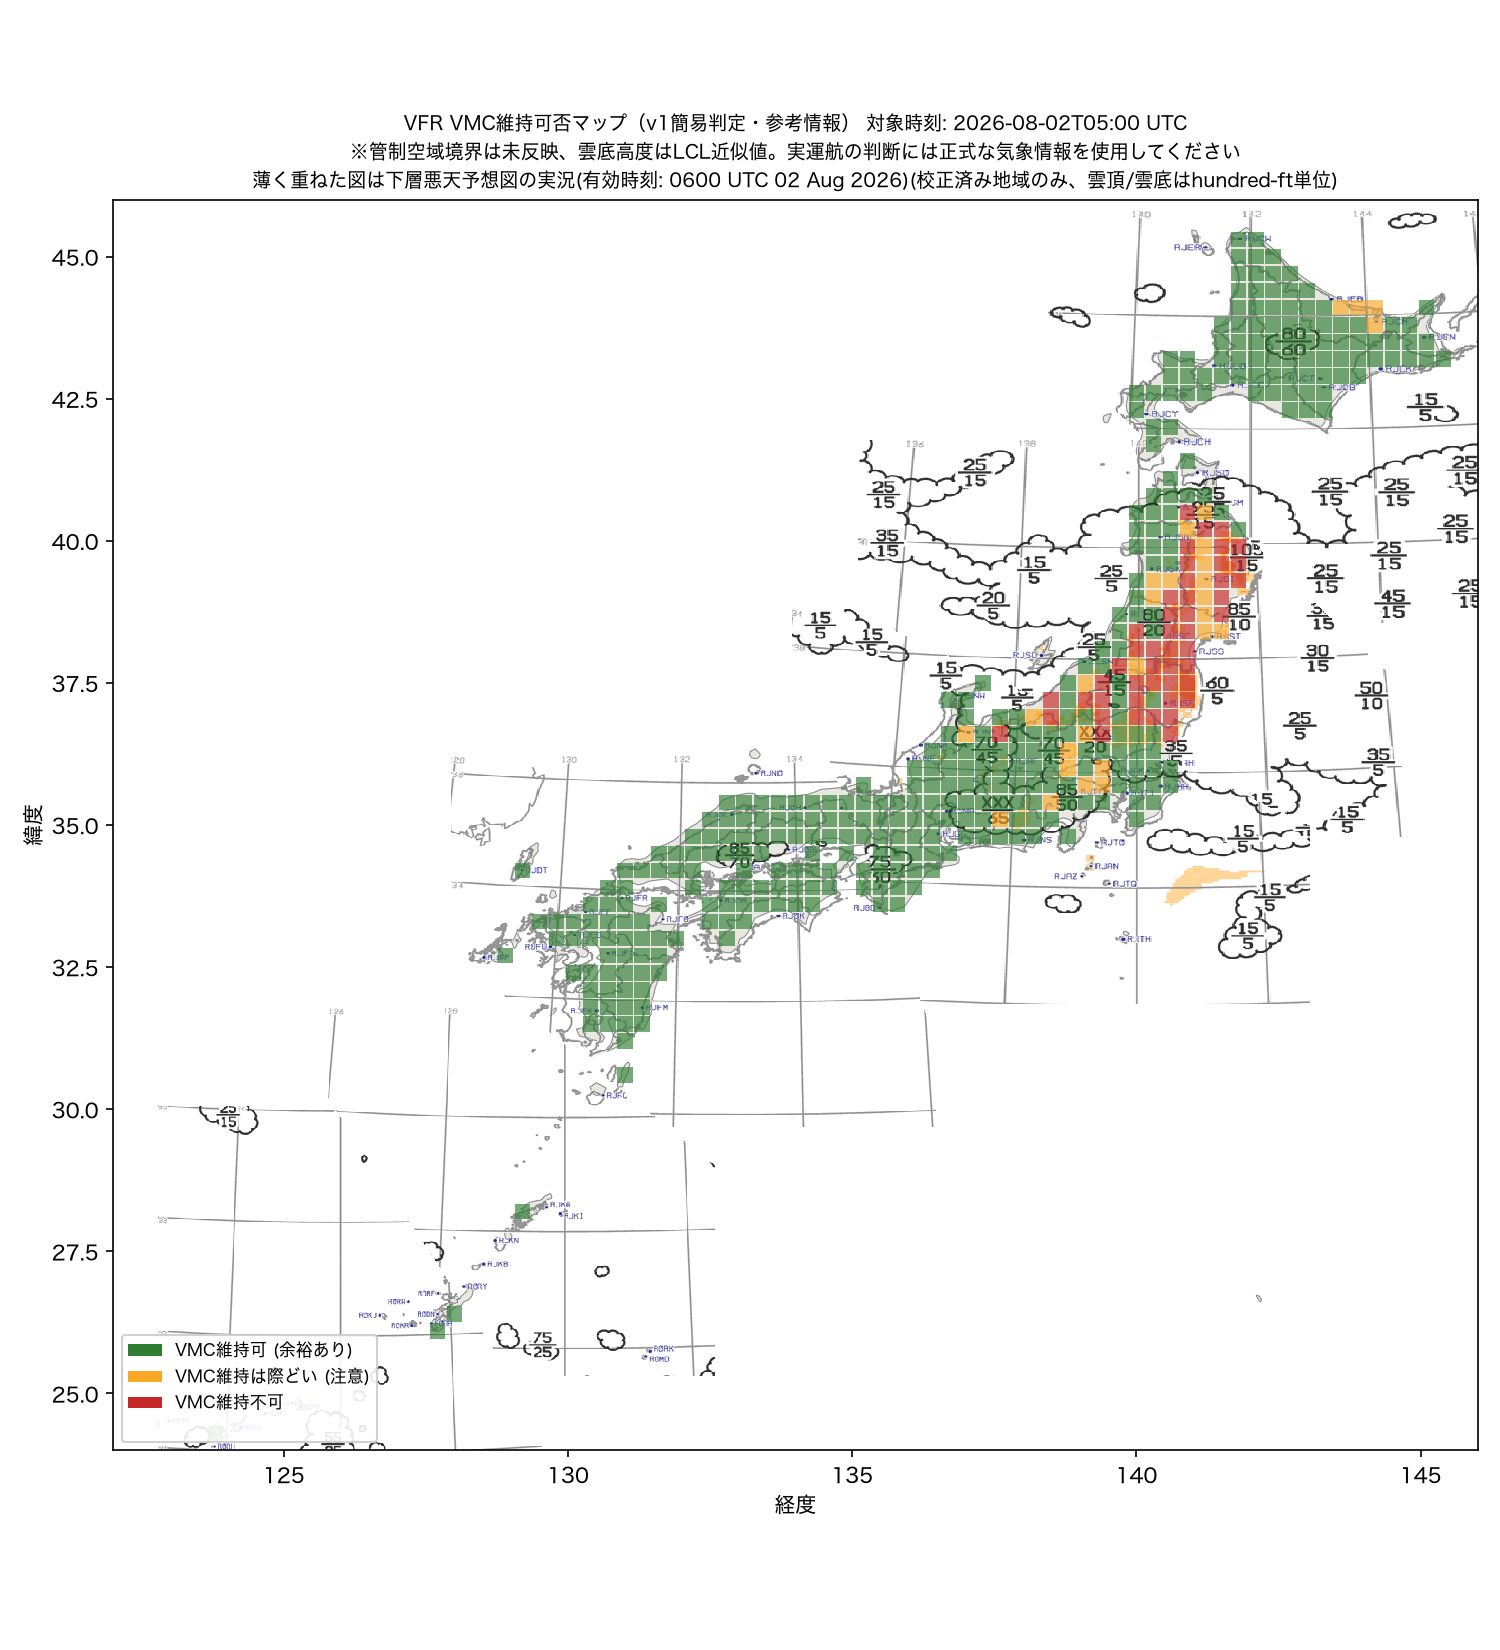
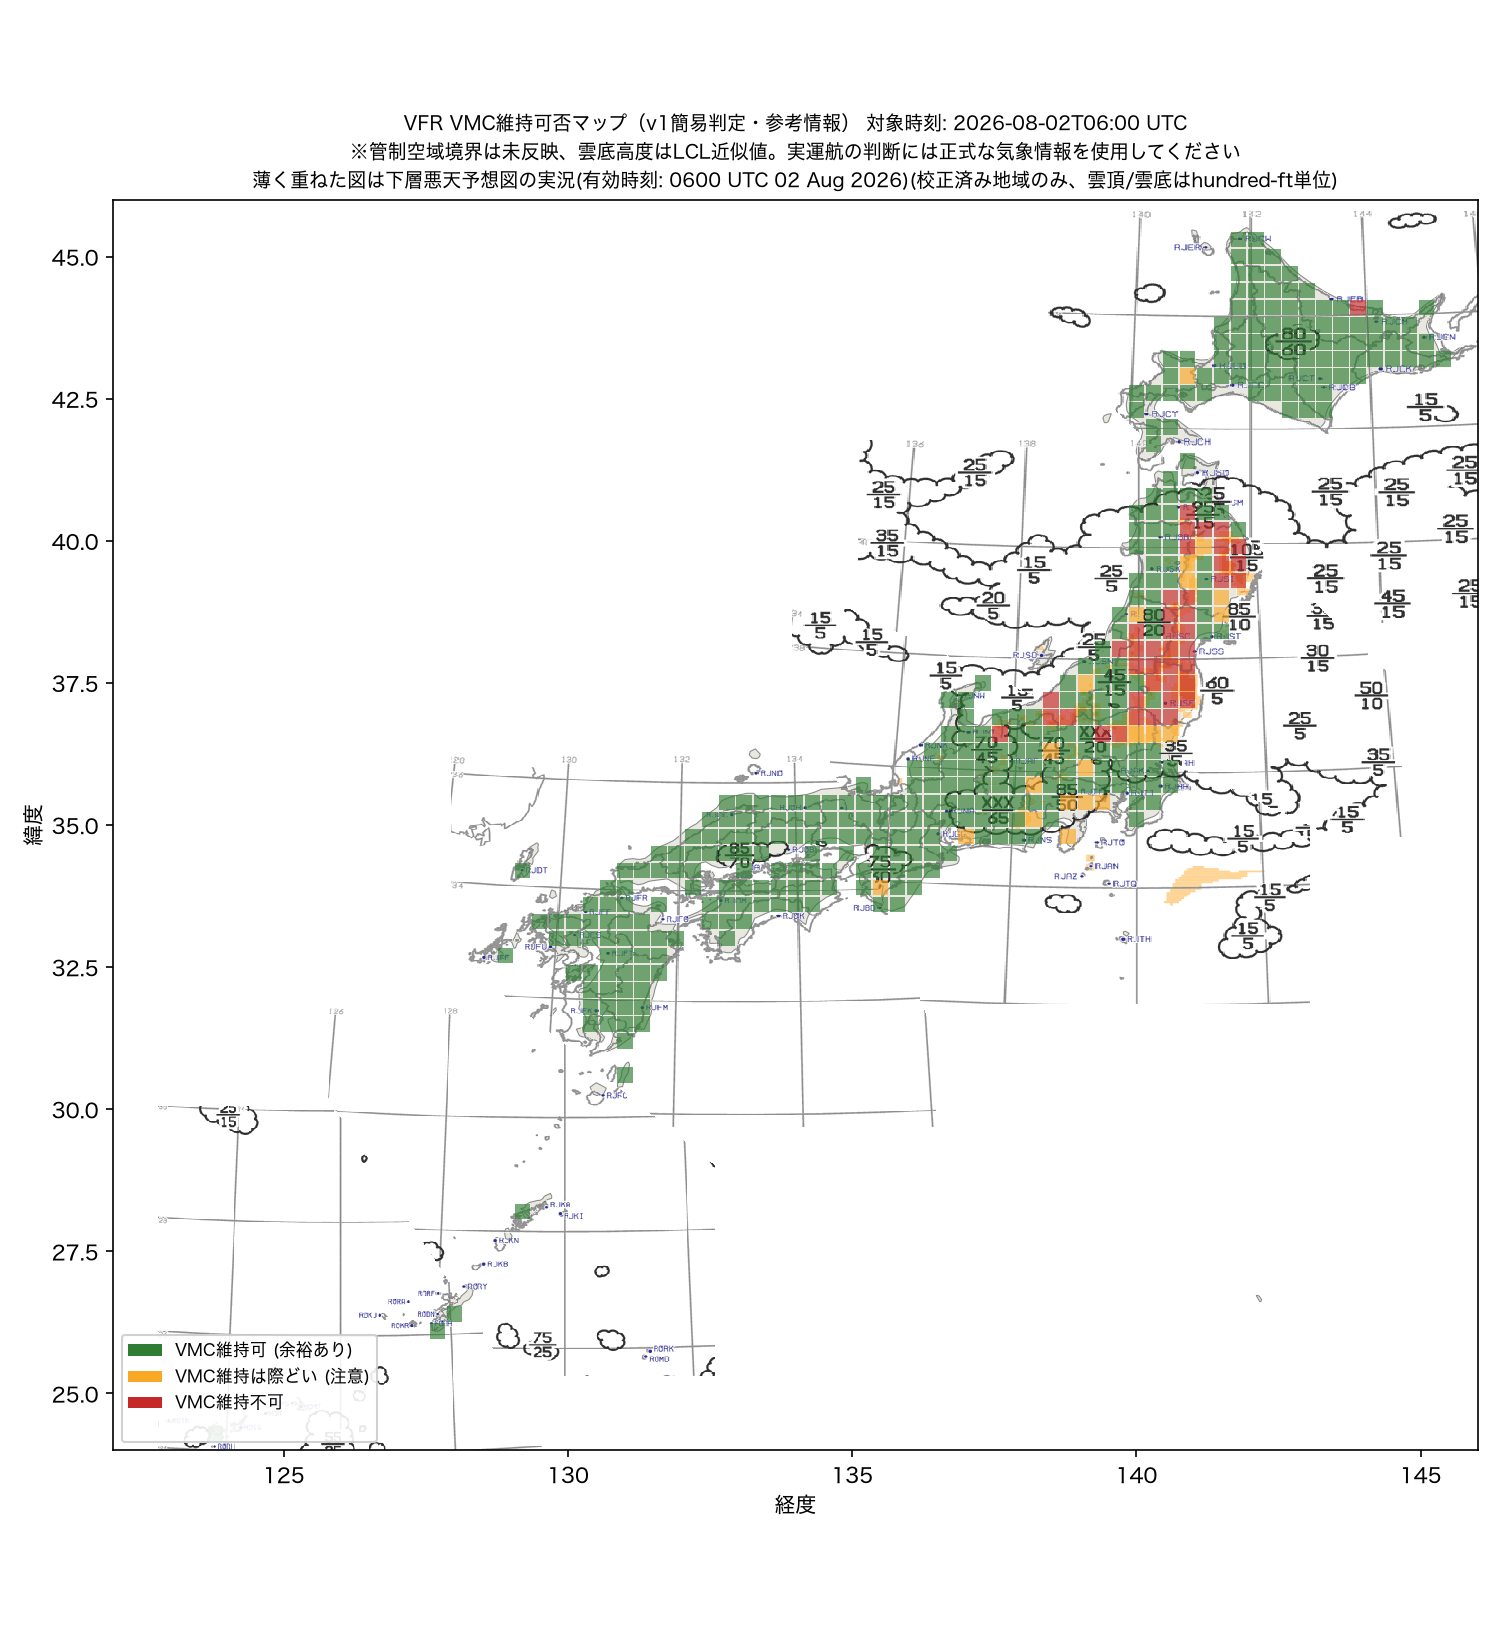
Update VMC map

diff --git a/index.html b/index.html
@@ -3,7 +3,7 @@
 <head>
 <meta charset="utf-8">
 <meta name="viewport" content="width=device-width, initial-scale=1">
-<title>VFR VMC 維持可否マップ (対象時刻: 2026-08-02T05:00 UTC)</title>
+<title>VFR VMC 維持可否マップ (対象時刻: 2026-08-02T06:00 UTC)</title>
 <style>
   :root {
     --bg: #eef1f5; --surface: #ffffff; --text: #1b2530; --text-muted: #5b6b7d;
@@ -95,7 +95,7 @@
     <h1>VFR VMC 維持可否マップ</h1>
     <p class="subtitle">日本全国、地形と雲底の隙間からVMC(視認気象状態)を維持できるかを判定した参考マップです。v1簡易判定につき、実運航の判断には正式な気象情報を使用してください。</p>
     <div class="chips">
-      <span class="chip">気象予報 対象時刻 <b>2026-08-02T05:00 UTC</b></span>
+      <span class="chip">気象予報 対象時刻 <b>2026-08-02T06:00 UTC</b></span>
       <span class="chip">下層悪天予想図 有効時刻 <b>0600 UTC 02 Aug 2026</b></span>
     </div>
   </header>
